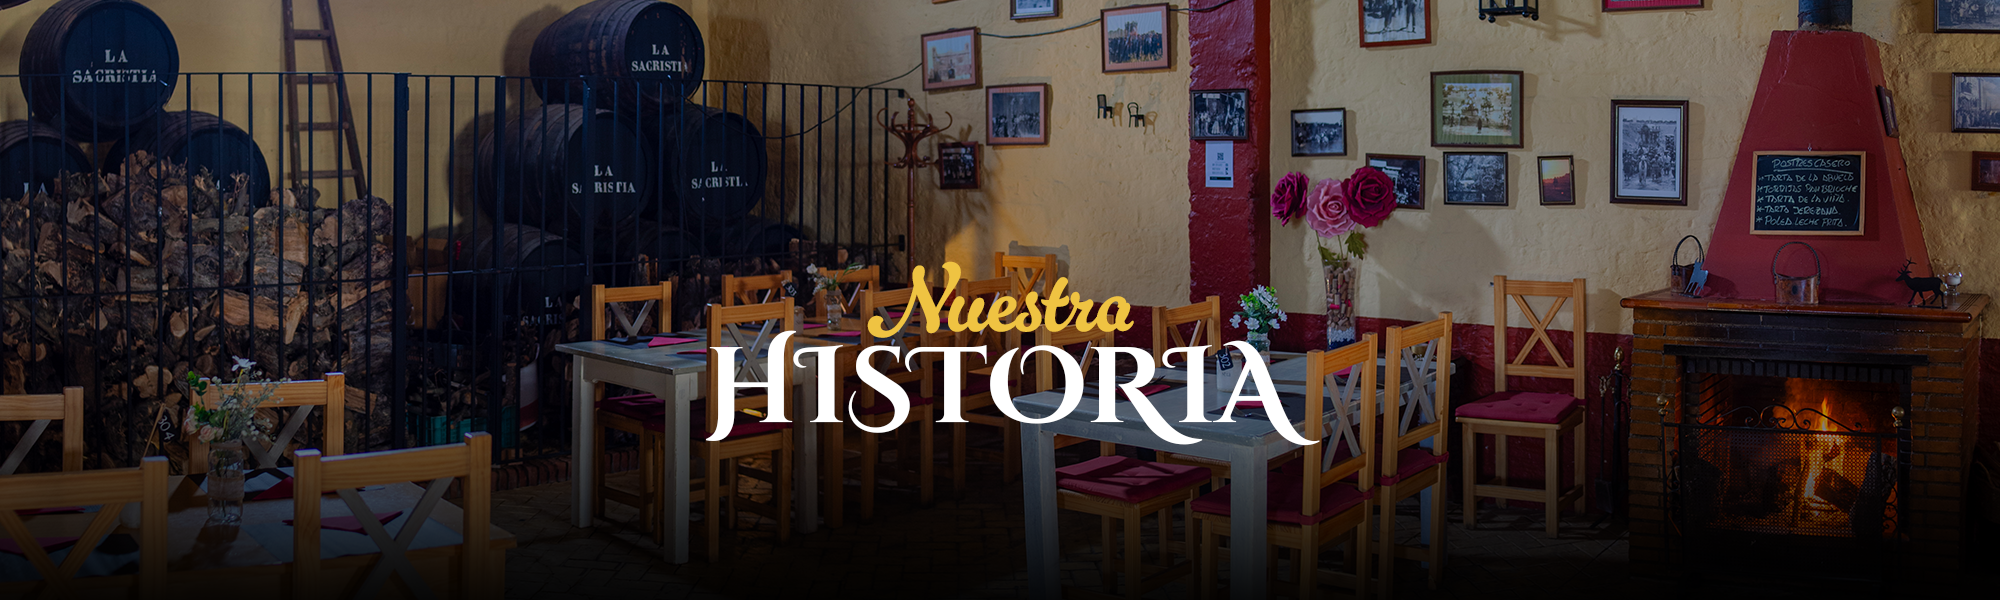
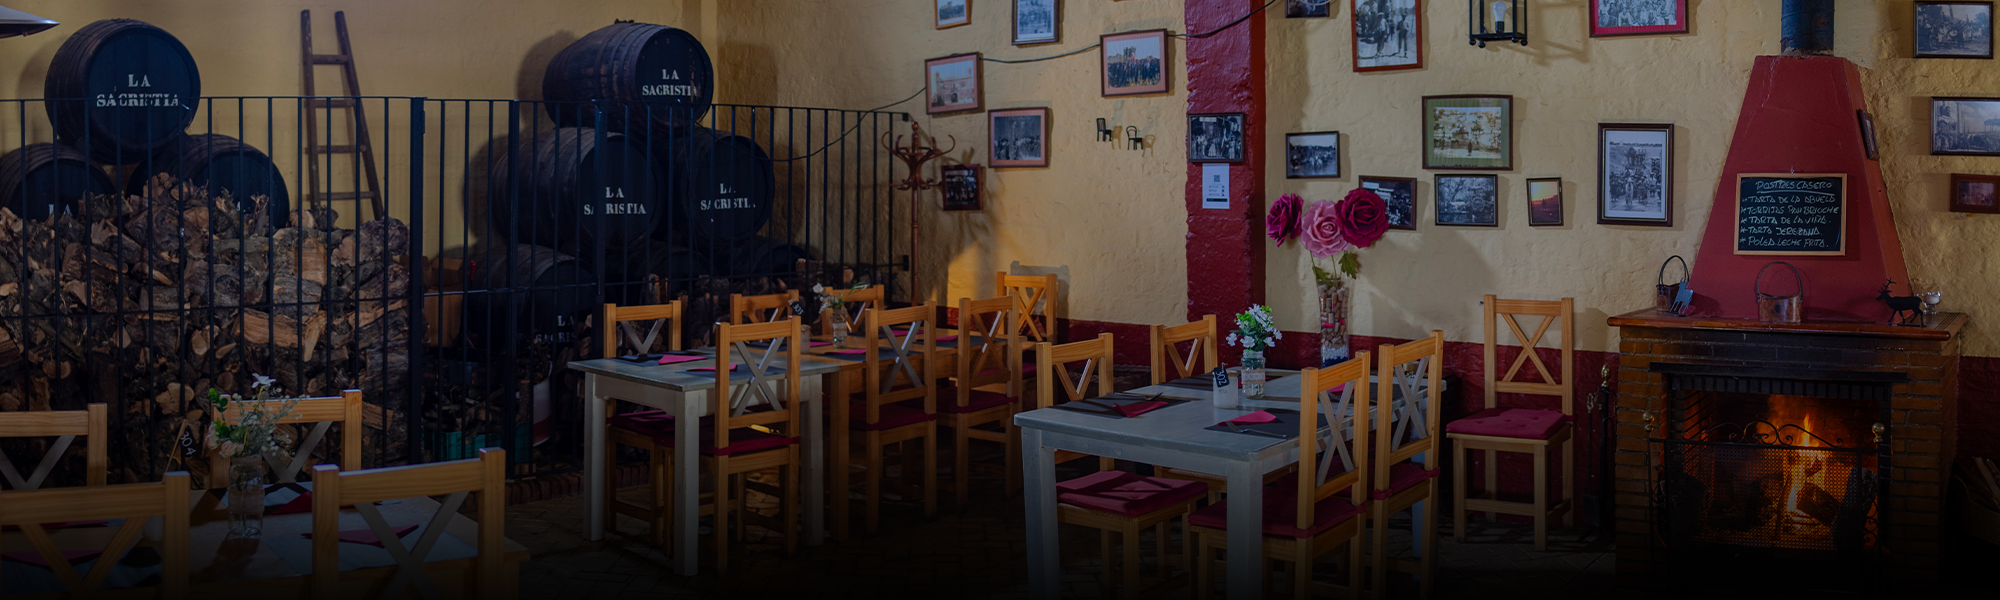
Finish landing and our

diff --git a/src/styles/pages/_our-history.scss b/src/styles/pages/_our-history.scss
@@ -1,17 +1,87 @@
 .head1 {
+  position: relative;
   width: 100%;
-  height: 30vh;
-  background-image: url("../images/our-history/head1.png"),
-    linear-gradient(to bottom, rgba(0, 0, 0, 0), #000000);
+  min-height: 40svh;
+  background-image: url("../images/our-history/head1.png");
   background-size: cover;
-  background-position: 50%;
+  background-position: center;
   background-repeat: no-repeat;
   display: flex;
   justify-content: center;
   align-items: center;
+  text-align: center;
+  overflow: hidden;
+
+  @media (min-width: 768px) {
+    min-height: 40svh;
+  }
+
+  @media (min-width: 1200px) {
+    min-height: 45svh;
+  }
+
+  &__overlay {
+    position: absolute;
+    inset: 0;
+    background: linear-gradient(to bottom, rgba(0, 0, 0, 0) 40%, #000000 100%);
+    z-index: 1;
+  }
+
+  &__principal2 {
+    text-align: center;
+    display: flex;
+    flex-direction: column;
+    z-index: 2;
+
+    @media (min-width: 768px) {
+      margin-top: 0.5rem;
+    }
+
+    @media (min-width: 1200px) {
+      margin-top: 0;
+    }
+  }
 }
 
-.content01, .content02, .content03, .content04 {
+.principal2 {
+  &__title {
+    font-family: $fontfamily-subtitle;
+    font-weight: 600;
+    font-size: 2.5rem;
+    color: $third-color;
+
+    @media (min-width: 768px) {
+      margin-top: 1rem;
+      font-size: 3.2rem;
+    }
+
+    @media (min-width: 1200px) {
+      font-size: 3.5rem;
+    }
+  }
+
+  &__title2 {
+    font-family: $fontfamily-title;
+    font-weight: 600;
+    font-size: 3rem;
+    margin-top: -0.5rem;
+    line-height: 1;
+    color: white;
+
+    @media (min-width: 768px) {
+      font-size: 3.3rem;
+    }
+
+    @media (min-width: 1200px) {
+      font-size: 3.8rem;
+    }
+  }
+}
+
+.content01,
+.content02,
+.content03,
+.content04 {
   background-color: $background-black;
   margin: auto;
   padding: 2rem;

diff --git a/src/js/main.js b/src/js/main.js
@@ -16,23 +16,16 @@ document.addEventListener("DOMContentLoaded", () => {
 
   //Menú desplegable
   if (menuToggle && menu) {
-    menuToggle.addEventListener("mouseenter", (event) => {
-      menu.classList.add("menu--active");
+    menuToggle.addEventListener("click", () => {
+      menu.classList.toggle("menu--active");
     });
-
-    menu.addEventListener("mouseleave", (event) => {
-      menu.classList.remove("menu--active");
-    });
-
-    menu.addEventListener("mouseenter", (event) => {
-      event.stopPropagation();
-    });
-
+  
     if (closeBtn) {
-      closeBtn.addEventListener("click", () =>{
+      closeBtn.addEventListener("click", () => {
         menu.classList.remove("menu--active");
       });
-  }}
+    }
+  }
 
   //Fondo del header al hacer scroll
   const scrollThreshold = 50;
@@ -72,10 +65,3 @@ document.addEventListener("DOMContentLoaded", () => {
     }
     setInterval(moveSlider, 3000); // Cambia cada 3 segundos
   }});
-
-  // Fade LANDING
-  AOS.init({
-    duration: 1000, // duración de la animación en milisegundos
-    once: true,     // la animación solo se ejecuta una vez
-    easing: 'ease-in-out',
-  });

diff --git a/src/nosotros.html b/src/nosotros.html
@@ -16,7 +16,13 @@
   
   <!--Página Nuestra historia-->
   <body>
-    <main class="head1"></main>
+    <main class="head1">
+      <div class="head1__overlay"></div>
+      <div class="head1__principal2">
+        <h1 class="principal2__title">Nuestra</h1>
+        <h1 class="principal2__title2">Historia</h1>
+      </div>
+    </main>
       <section class="content01">
         <p class="content01__text">La Bodega La Sacristía es un pequeño restaurante de gran tradición culinaria localizado estratégicamente en Almensilla, uno de los pequeños pueblos señalados de la Ruta del Mosto, en la comarca del Aljarafe (Sevilla).</p>
         <p class="content01__text">Esta bodega fue fundada en los años 50 y está especializada en la elaboración de mosto casero. En su historia ha sufrido numerosas idas y venidas, teniendo que cerrar a principios de los 2000 y celebrando su reapertura en 2005. A pesar de ello, Bodega La Sacristía se ha mantenido como un emblema aljarafeño todas estas décadas.</p>

diff --git a/src/partials/layout/header.html b/src/partials/layout/header.html
@@ -20,5 +20,5 @@
     </div> 
   </nav>
 
-  <script src="./js/main.js"></script>
+  <script type="module" src="./js/main.js"></script>
 </header>
